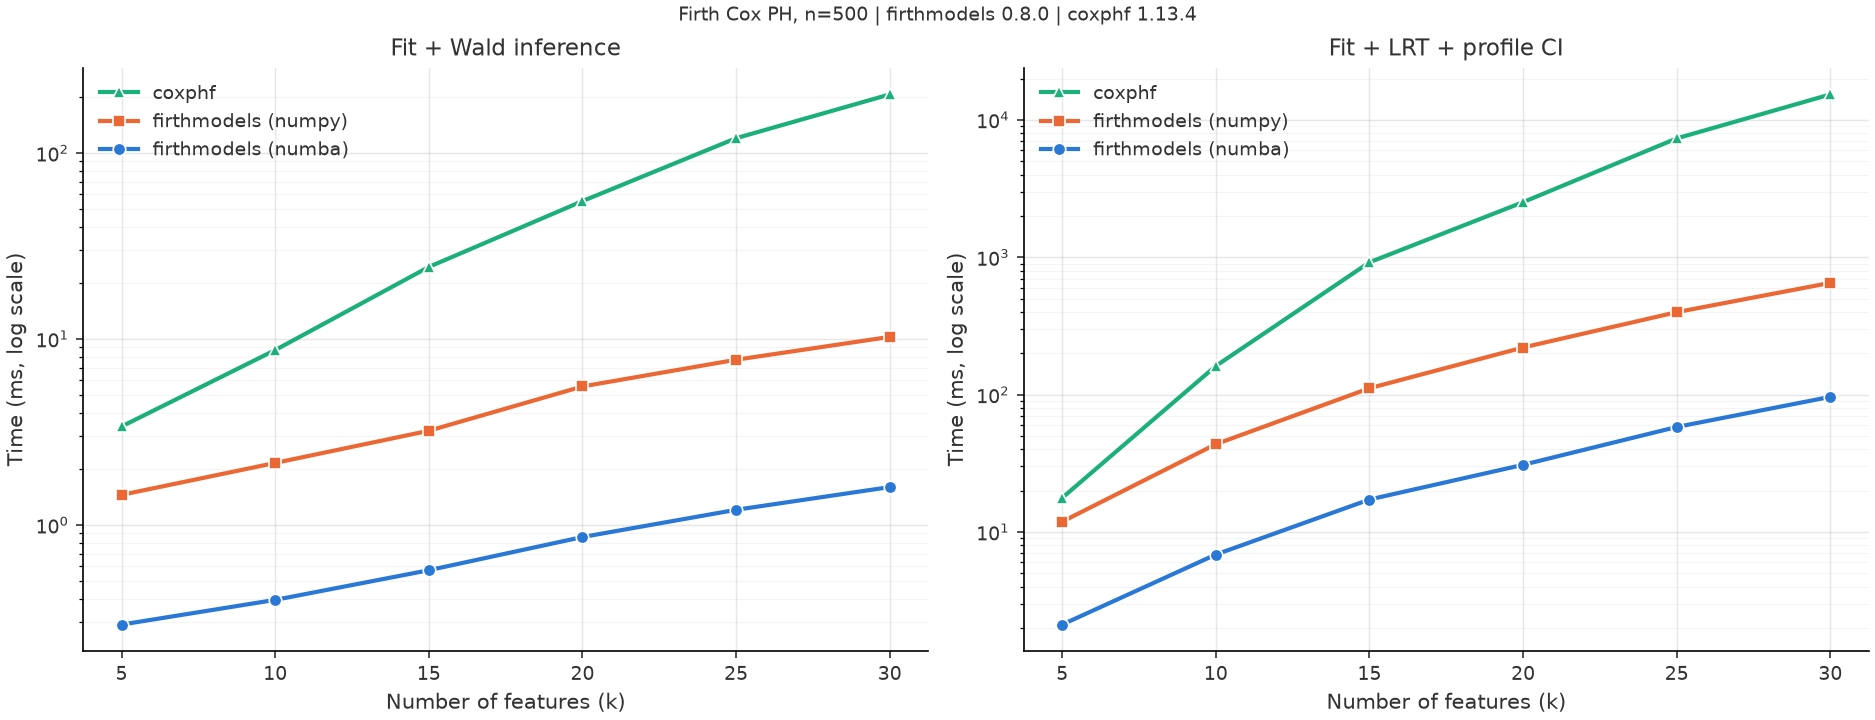
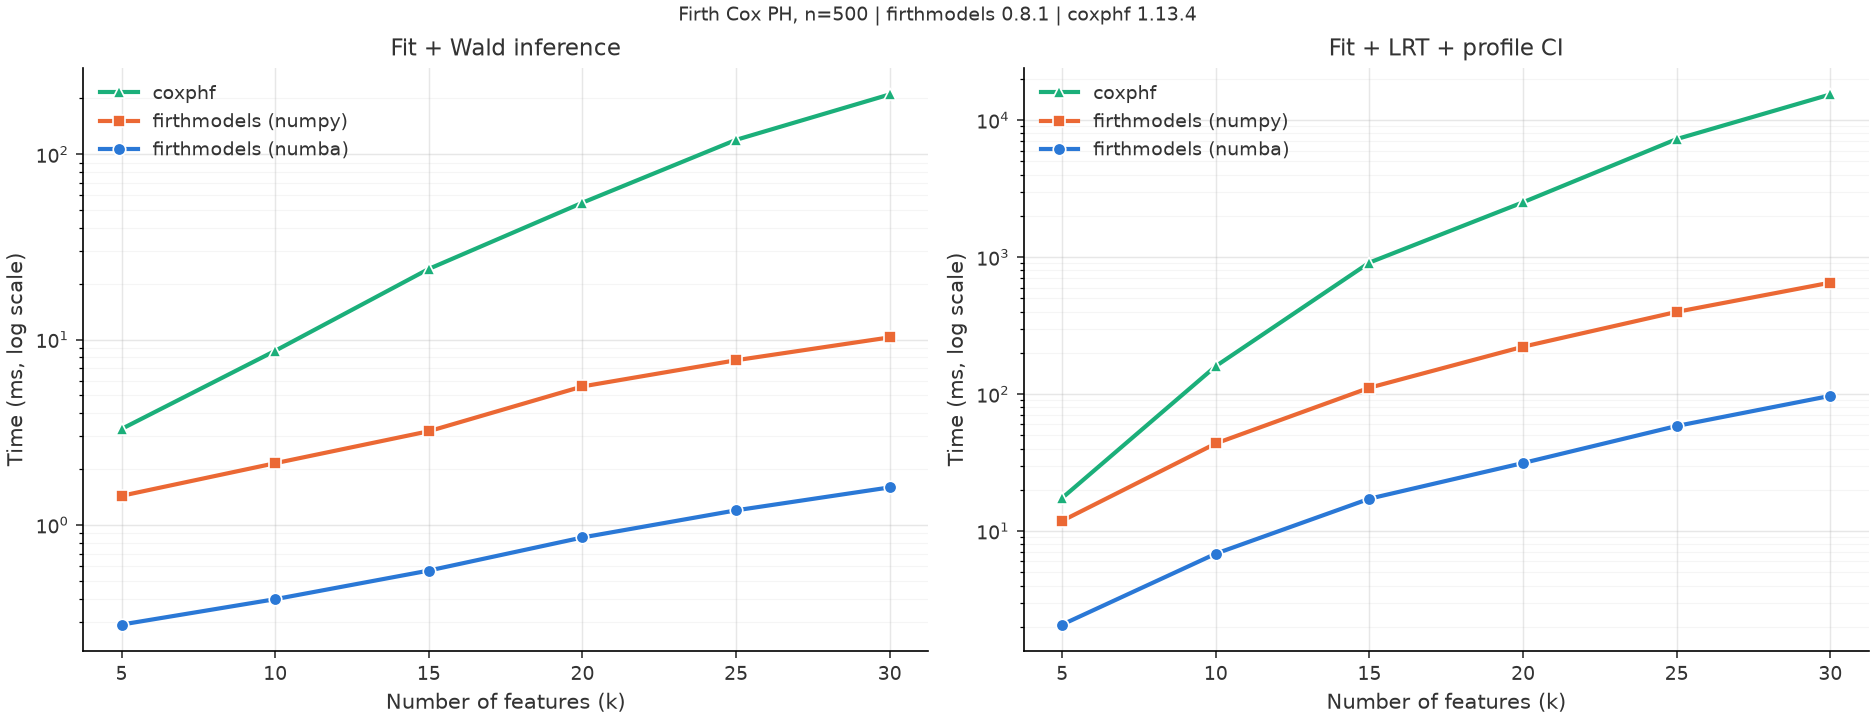
bump to 0.8.1

diff --git a/benchmarks/README.md b/benchmarks/README.md
@@ -10,13 +10,13 @@ of Firth-penalized logistic regression (R [logistf](https://cran.r-project.org/p
 For the full workflow, firthmodels' Numba backend is **10.8x
 faster than logistf** (k=50) and **159x faster than
 coxphf** (k=30). Without Numba, the pure NumPy backend is 7.5x
-faster than logistf and 23.5x faster than coxphf.
+faster than logistf and 23.7x faster than coxphf.
 
 | Workload | Baseline | Speedup at k=5 | Speedup at largest k |
 |---|---|--:|--:|
-| Logistic: fit + Wald | next-fastest package | 4.6x | 5.2x |
+| Logistic: fit + Wald | next-fastest package | 3.8x | 5.3x |
 | Logistic: fit + LRT + profile CI | logistf | 2.7x | 10.8x |
-| Cox: fit + Wald | coxphf | 11.6x | 129x |
+| Cox: fit + Wald | coxphf | 11.4x | 132x |
 | Cox: fit + LRT + profile CI | coxphf | 8.4x | 159x |
 
 The largest observed deviation across coefficients, profile CI bounds, and p-values is 8.0e-07 (see [Correctness](#correctness)).
@@ -46,20 +46,20 @@ All values are the minimum observed wall-clock time across repeated runs, in mil
 
 | k | firthmodels<br>(numba) | firthmodels<br>(numpy) | logistf | brglm2<br>(AS-mean) | brglm2<br>(MPL-Jeffreys) | numba speedup<br>vs next fastest | numpy speedup<br>vs next fastest |
 |--:|--:|--:|--:|--:|--:|--:|--:|
-| 5 | **0.51** | 0.90 | <ins>2.4</ins> | 4.0 | 4.0 | 4.6x | 2.6x |
-| 10 | **0.72** | 1.1 | <ins>3.4</ins> | 4.7 | 4.7 | 4.8x | 3.0x |
-| 15 | **0.75** | 1.2 | <ins>5.3</ins> | 5.4 | 5.4 | 7.1x | 4.5x |
-| 20 | **1.0** | 1.5 | 7.8 | <ins>6.2</ins> | 6.2 | 6.0x | 4.1x |
-| 25 | **1.5** | 2.2 | 11.4 | <ins>7.9</ins> | 7.9 | 5.4x | 3.6x |
-| 30 | **1.6** | 2.3 | 14.7 | <ins>8.6</ins> | 8.6 | 5.2x | 3.7x |
-| 35 | **1.7** | 2.7 | 19.8 | 10.2 | <ins>10.2</ins> | 5.8x | 3.8x |
-| 40 | **2.2** | 3.0 | 24.8 | 11.6 | <ins>11.6</ins> | 5.4x | 3.8x |
-| 45 | **2.7** | 3.7 | 33.0 | 13.6 | <ins>13.0</ins> | 4.8x | 3.5x |
-| 50 | **3.2** | 4.2 | 40.7 | 17.1 | <ins>16.9</ins> | 5.2x | 4.0x |
+| 5 | **0.50** | 0.87 | <ins>1.9</ins> | 4.0 | 4.0 | 3.8x | 2.2x |
+| 10 | **0.72** | 1.1 | <ins>3.4</ins> | 4.6 | 4.6 | 4.7x | 3.0x |
+| 15 | **0.75** | 1.2 | <ins>5.3</ins> | 5.4 | 5.4 | 7.1x | 4.4x |
+| 20 | **1.0** | 1.5 | 7.8 | 6.3 | <ins>6.2</ins> | 6.1x | 4.1x |
+| 25 | **1.5** | 2.2 | 11.4 | 7.8 | <ins>7.8</ins> | 5.4x | 3.6x |
+| 30 | **1.6** | 2.3 | 14.7 | <ins>8.5</ins> | 8.7 | 5.2x | 3.7x |
+| 35 | **1.7** | 2.6 | 19.9 | <ins>10.2</ins> | 10.2 | 5.8x | 4.0x |
+| 40 | **2.2** | 3.1 | 24.9 | 11.6 | <ins>11.5</ins> | 5.2x | 3.8x |
+| 45 | **2.7** | 3.7 | 33.2 | 13.1 | <ins>13.0</ins> | 4.8x | 3.5x |
+| 50 | **3.2** | 4.3 | 40.8 | 17.0 | <ins>16.7</ins> | 5.3x | 3.9x |
 
 The fastest time at each k is **bolded**. The next-fastest package (not including the firthmodels
 NumPy backend) is <ins>underlined</ins> and is the baseline for the speedup columns. The two brglm2
-fitting methods have nearly identical timings (within 4.6% at every k).
+fitting methods have nearly identical timings (within 1.9% at every k).
 
 ### Full workflow: fit + LRT + profile likelihood CI
 
@@ -68,16 +68,16 @@ p-values or profile likelihood CIs.
 
 | k | firthmodels<br>(numba) | firthmodels<br>(numpy) | logistf | numba speedup<br>vs logistf | numpy speedup<br>vs logistf |
 |--:|--:|--:|--:|--:|--:|
-| 5 | **4.5** | 10.4 | <ins>12.0</ins> | 2.7x | 1.2x |
+| 5 | **4.5** | 10.6 | <ins>11.9</ins> | 2.7x | 1.1x |
 | 10 | **11.5** | 23.7 | <ins>41.9</ins> | 3.6x | 1.8x |
-| 15 | **18.3** | 37.7 | <ins>101.1</ins> | 5.5x | 2.7x |
-| 20 | **35.0** | 61.3 | <ins>205.2</ins> | 5.9x | 3.3x |
-| 25 | **66.5** | 116.3 | <ins>416.4</ins> | 6.3x | 3.6x |
-| 30 | **93.5** | 149.5 | <ins>623.8</ins> | 6.7x | 4.2x |
-| 35 | **113.1** | 200.4 | <ins>1,058</ins> | 9.3x | 5.3x |
-| 40 | **164.3** | 260.9 | <ins>1,536</ins> | 9.3x | 5.9x |
-| 45 | **217.3** | 324.1 | <ins>2,216</ins> | 10.2x | 6.8x |
-| 50 | **291.7** | 415.5 | <ins>3,136</ins> | 10.8x | 7.5x |
+| 15 | **18.2** | 38.1 | <ins>101.0</ins> | 5.6x | 2.7x |
+| 20 | **34.9** | 61.7 | <ins>206.2</ins> | 5.9x | 3.3x |
+| 25 | **66.4** | 117.1 | <ins>418.7</ins> | 6.3x | 3.6x |
+| 30 | **92.9** | 150.3 | <ins>624.0</ins> | 6.7x | 4.2x |
+| 35 | **111.8** | 190.2 | <ins>1,059</ins> | 9.5x | 5.6x |
+| 40 | **166.4** | 261.9 | <ins>1,533</ins> | 9.2x | 5.9x |
+| 45 | **213.9** | 326.7 | <ins>2,230</ins> | 10.4x | 6.8x |
+| 50 | **290.9** | 420.3 | <ins>3,135</ins> | 10.8x | 7.5x |
 
 ---
 
@@ -96,12 +96,12 @@ All values are the minimum observed wall-clock time across repeated runs, in mil
 
 | k | firthmodels<br>(numba) | firthmodels<br>(numpy) | coxphf | numba speedup<br>vs coxphf | numpy speedup<br>vs coxphf |
 |--:|--:|--:|--:|--:|--:|
-| 5 | **0.29** | 1.5 | <ins>3.4</ins> | 11.6x | 2.3x |
-| 10 | **0.40** | 2.2 | <ins>8.7</ins> | 22.0x | 4.0x |
-| 15 | **0.57** | 3.2 | <ins>24.4</ins> | 42.7x | 7.6x |
-| 20 | **0.86** | 5.6 | <ins>55.1</ins> | 64.0x | 9.9x |
-| 25 | **1.2** | 7.7 | <ins>120.1</ins> | 99.6x | 15.5x |
-| 30 | **1.6** | 10.3 | <ins>206.5</ins> | 129x | 20.1x |
+| 5 | **0.29** | 1.4 | <ins>3.3</ins> | 11.4x | 2.3x |
+| 10 | **0.40** | 2.2 | <ins>8.7</ins> | 21.9x | 4.0x |
+| 15 | **0.57** | 3.2 | <ins>24.1</ins> | 42.5x | 7.5x |
+| 20 | **0.85** | 5.6 | <ins>54.8</ins> | 64.1x | 9.8x |
+| 25 | **1.2** | 7.7 | <ins>119.6</ins> | 99.8x | 15.5x |
+| 30 | **1.6** | 10.3 | <ins>210.3</ins> | 132x | 20.5x |
 
 The fastest time at each k is **bolded**. The next-fastest package (not including the firthmodels
 NumPy backend) is <ins>underlined</ins> and is the baseline for the speedup columns.
@@ -110,12 +110,12 @@ NumPy backend) is <ins>underlined</ins> and is the baseline for the speedup colu
 
 | k | firthmodels<br>(numba) | firthmodels<br>(numpy) | coxphf | numba speedup<br>vs coxphf | numpy speedup<br>vs coxphf |
 |--:|--:|--:|--:|--:|--:|
-| 5 | **2.1** | 11.9 | <ins>17.7</ins> | 8.4x | 1.5x |
-| 10 | **6.9** | 43.6 | <ins>161.6</ins> | 23.6x | 3.7x |
-| 15 | **17.2** | 111.3 | <ins>918.9</ins> | 53.3x | 8.3x |
-| 20 | **30.8** | 220.3 | <ins>2,519</ins> | 81.7x | 11.4x |
-| 25 | **58.2** | 398.4 | <ins>7,331</ins> | 126x | 18.4x |
-| 30 | **96.4** | 651.3 | <ins>15,323</ins> | 159x | 23.5x |
+| 5 | **2.1** | 11.9 | <ins>17.4</ins> | 8.4x | 1.5x |
+| 10 | **6.8** | 43.6 | <ins>160.0</ins> | 23.4x | 3.7x |
+| 15 | **17.2** | 111.3 | <ins>912.8</ins> | 53.0x | 8.2x |
+| 20 | **31.4** | 221.8 | <ins>2,516</ins> | 80.2x | 11.3x |
+| 25 | **58.5** | 398.4 | <ins>7,281</ins> | 124x | 18.3x |
+| 30 | **97.1** | 651.4 | <ins>15,425</ins> | 159x | 23.7x |
 
 ---
 
@@ -153,7 +153,7 @@ Collected at report-generation time on the benchmark machine.
 | OS | CachyOS |
 | CPU | AMD Ryzen 5 5600X 6-Core Processor |
 | Python | 3.12.13 |
-| firthmodels | 0.8.0 |
+| firthmodels | 0.8.1 |
 | NumPy / SciPy / Numba | 2.3.5 / 1.16.3 / 0.64.0 |
 | NumPy BLAS | /usr/lib/libopenblas.so.0.3 (openblas 0.3.34, runtime) |
 | R | 4.6.1 |
